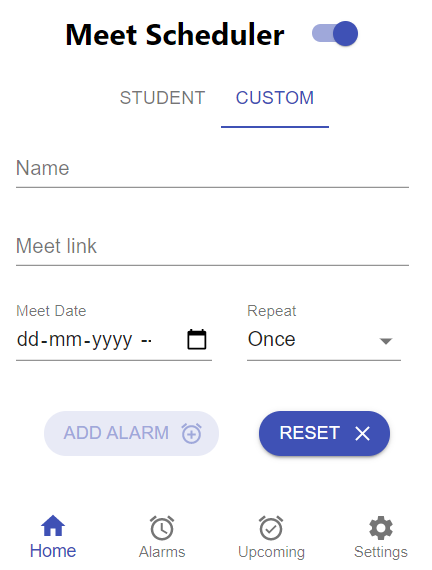
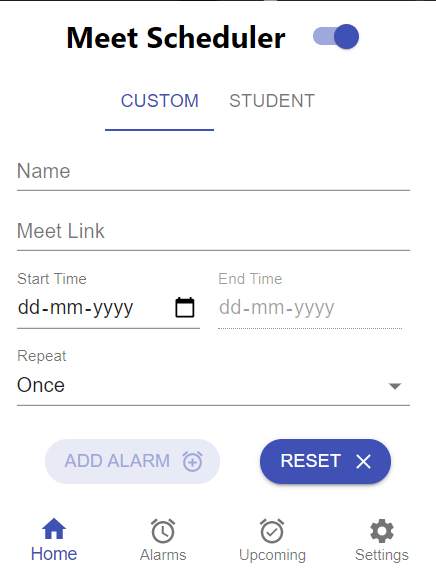
update readme

diff --git a/README.md b/README.md
@@ -1,39 +1,48 @@
 [<img src="assets/chrome web store medium.png" alt="Meet Scheduler">](https://chrome.google.com/webstore/detail/auto-join-chrome-extensio/djlpjopjnkojimgiaefgbenbbkkknnln?hl=en)
 
 We are all fed up of keeping track of google meet/ zoom links for our meetings. This chrome extension makes your life easy!
-You just have to select the slot and the course (or add link and time in the `Custom` Tab) and this extension opens the link at the given time ( you can customize the start time ) and also lets you auto join it!😉
+You just have to enter the start and end (optional) time of your meeting in the `Custom` Tab and this extension would auto join and auto leave the meeting for you!🚀
+
+Students from IIT Jodhpur can select their slots and courses from the `Student` Tab 🎓
+
+![Chrome Web Store](https://img.shields.io/chrome-web-store/v/djlpjopjnkojimgiaefgbenbbkkknnln.svg?style=for-the-badge&logo=google-chrome&logoColor=white)
+![Chrome Web Store Users](https://img.shields.io/chrome-web-store/d/djlpjopjnkojimgiaefgbenbbkkknnln.svg?style=for-the-badge&logo=google-chrome&logoColor=white)
+![Chrome Web Store Rating](https://img.shields.io/chrome-web-store/rating/djlpjopjnkojimgiaefgbenbbkkknnln.svg?style=for-the-badge&logo=google-chrome&logoColor=white)
 
 ## Tech stack
 
-React JS has been used for the frontend and the backend workflow is established using `chrome.storage` and `chrome.alarms`
+React JS ⚛ has been used in frontend and the backend workflow is established mainly using `chrome.storage` and `chrome.alarms` ⏰
 
 ## Description
 
-<img src="assets/students form.png" alt="Students Form">
 <img src="assets/custom form.png" alt="Custom Form">
+<img src="assets/students form.png" alt="Students Form">
 
-- To add an alarm, select the slot and the course from the list and click on `Add Alarm` (IITJ Students)
-- You can even add a custom link and time in the `Custom` tab
-- The toggle on the top is a switch for the extension. If you turn it off, no alarms will ring.
+- To add an alarm, add the link and set the start and end (optional) time in the `Custom` Tab
+- IIT Jodhpur students can also select from the Slot and Course list in the `Student` Tab
+- The switch on the top is an on/off switch for the extension. If you turn it off, no alarms will get triggered.
 
 <img src="assets/alarms.png" alt="Alarms List">
 <img src="assets/upcoming alarms 2.png" alt="Upcoming Alarms">
 
 - The `Alarm` tab shows a list of all the alarms
 
-- The `Upcoming` tab shows you the upcoming alarms
-  - If you want to uregently join the meeting, just click on the course code given in the list. It will take you to the meeting!
-  - If you want to silent an alarm or don't want it to ring because of some reasons, click on the `tick mark` on the left to turn it off/on.
+- The `Upcoming` tab shows you the alarms set for _Today_, _Tomorrow_ and _Later_
+  - If you want to urgently join the meeting, just click on the course code given in the list. It will take you to the meeting!
+  - If you want to silent an alarm or don't want it to ring because of some reason, click on the `tick mark` on the left to turn it off/on.
 
 <img src="assets/settings.png" alt="Settings">
 
-- The most important thing for the auto join feature to work is the `User Account` and the `Auto Join` toggle in the <b>Settings</b> tab
-  <img src="assets/accounts.jpeg" alt="Accounts">
+- The most important thing for the auto join feature to work is the `User Account` and the `Auto Join` switch in the <b>Settings</b> tab.
+  Similarly, the auto leave function won't work if the `Auto Leave` switch is turned off.
 
-  - The image above shows some of the accounts a user might have registered in chrome. To use the <b>auto join</b> feature, the user must see the index of his/ her IITJ account (or whichever account they need to use to join the meeting) and select that number in the `User Account` dropdown list. Here, the index shown is 2 and therefore 2 is selected in the `User Account` dropdown list.
-  - If the Auto Join switch is turned off in the Settings tab, alarm will ring and the link will get opened but it won't auto join the meeting for you.
+<img src="assets/accounts.jpeg" alt="Accounts">
 
-- You can even customize the start time according to you. By default the start time is set to 30 seconds before the lecture time. One can change it to anything according to his/ her convenience.
+- The image above shows some of the accounts a user might have registered in chrome. To use the <b>Auto Join</b> feature, the user must see the index of his/ her account using which they want to join the meeting (IIT Jodhpur students must check the index of their IITJ email id) and select that number in the `User Account` dropdown list. Here, the index shown is 2 and therefore 2 is selected in the `User Account` dropdown list.
+- If the Auto Join switch is turned off in the Settings tab, alarm will ring and the link will get opened but it won't auto join the meeting for you.
+- If the Auto Leave switch is turned off in the Settings tab, the Auto Leave feature won't work even if you had entered the end time.
+
+- You can even customize the start time according to you. By default the start time is set to 30 seconds before the meeting time. What this means is that if the alarm is set for _4:00:00 pm_, the link will get opened at _3:59:30 pm_. One can change it to anything according to his/ her convenience.
 
 #### If you want to contribute to this project:
 
